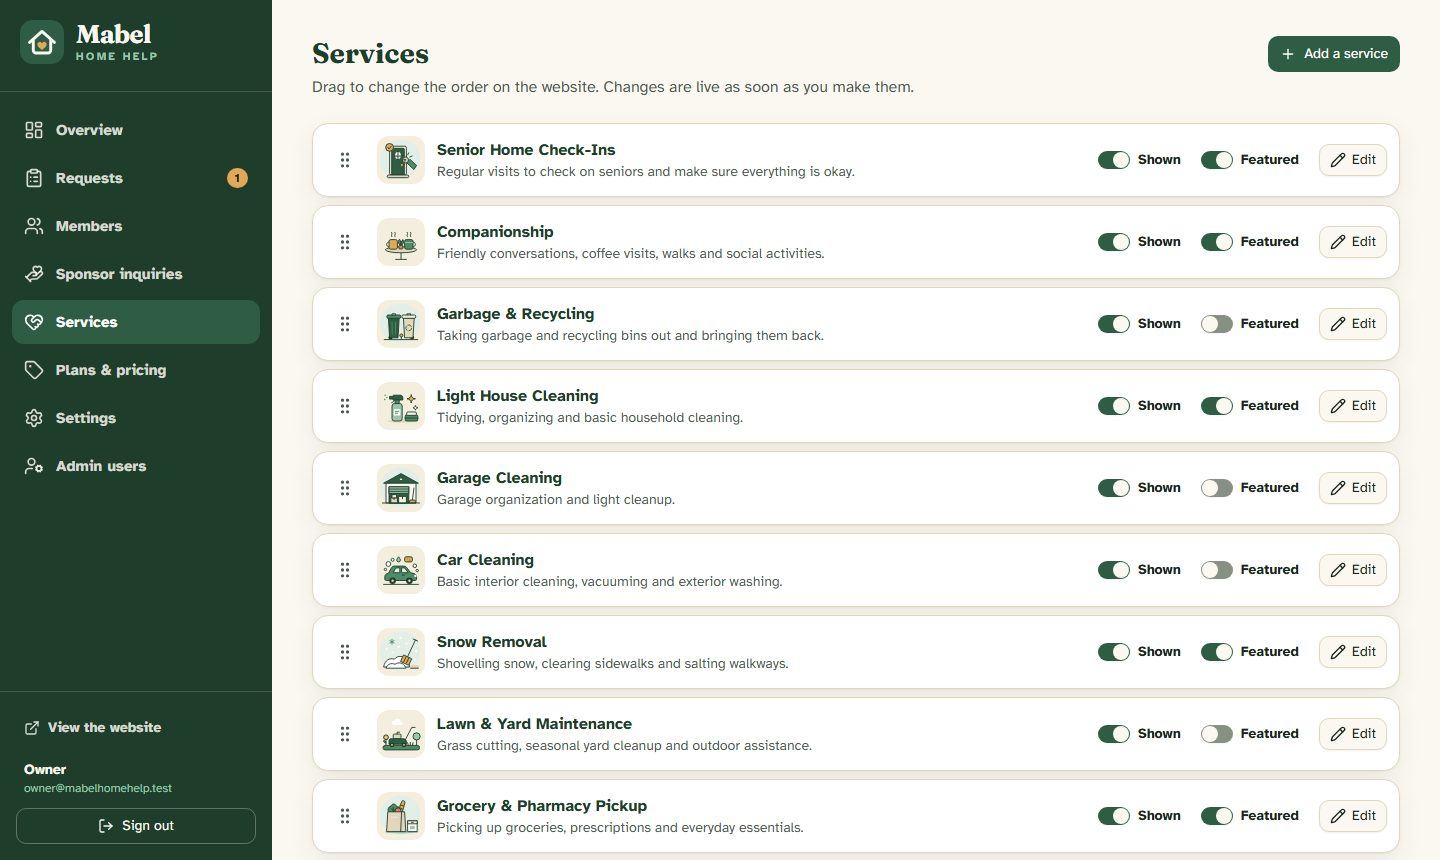
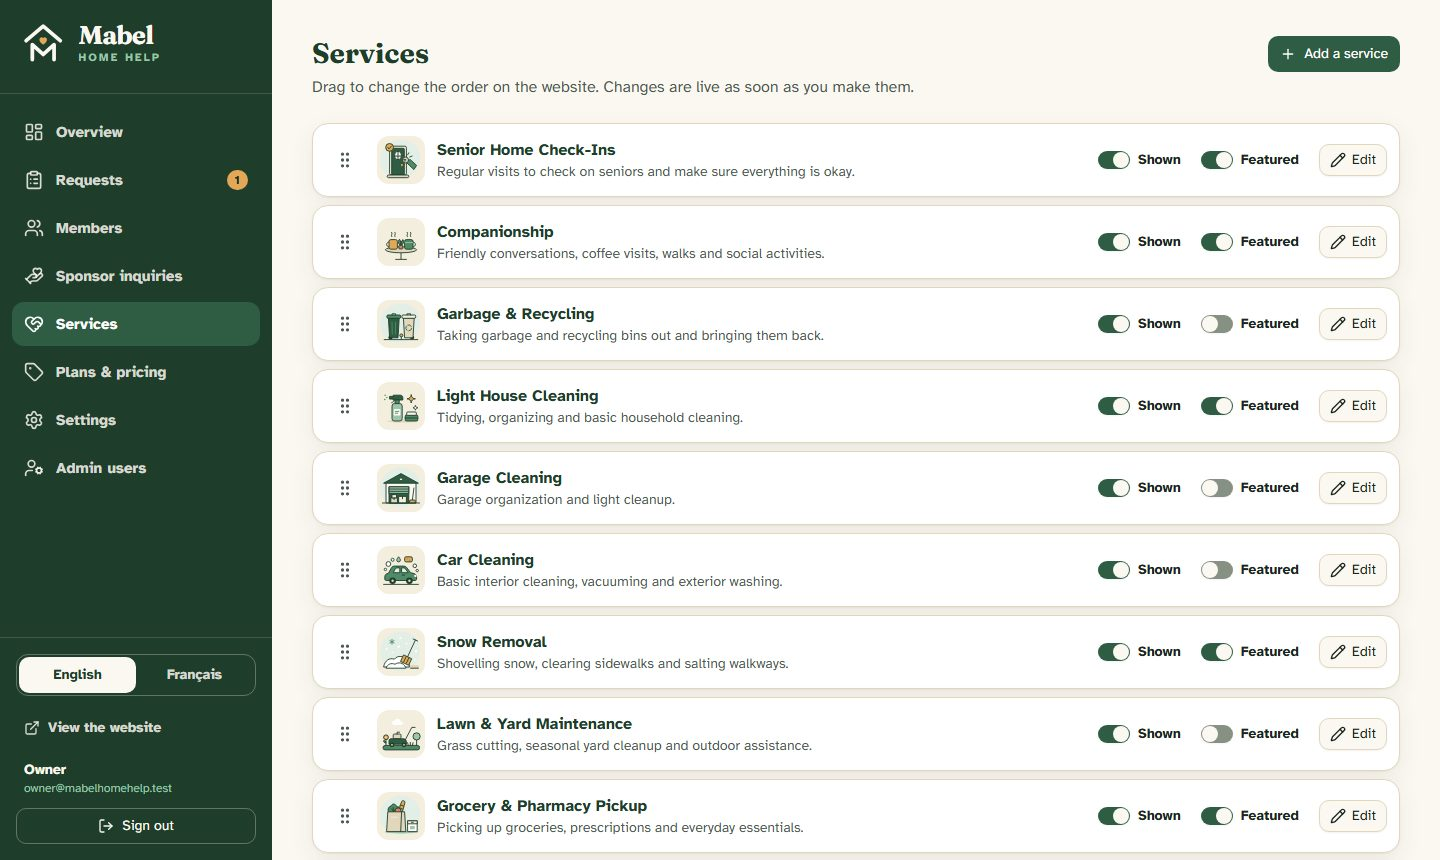
test, docs: cover the action bar and the French admin
- End-to-end: the bar hides on scroll and while typing; the dashboard
  switches language and remembers it; every admin screen is measured at
  six widths in French as well as English.
- README, AGENTS.md and the specification (section 22) describe the
  three changes; README screenshots retaken with the new logo.

diff --git a/tests/e2e/site.spec.ts b/tests/e2e/site.spec.ts
@@ -118,11 +118,82 @@ test.describe("public site", () => {
   });
 });
 
+test.describe("phone action bar", () => {
+  test.use({ viewport: { width: 390, height: 844 }, hasTouch: true });
+
+  test("steps aside while scrolling down and comes back on the way up", async ({
+    page,
+  }) => {
+    await page.goto("/");
+    const bar = page.getByRole("navigation", { name: "Quick contact actions" });
+    await expect(bar).toBeInViewport();
+
+    await page.mouse.wheel(0, 900);
+    await expect(bar).toHaveAttribute("data-hidden", "true");
+    await expect(bar).not.toBeInViewport();
+
+    await page.mouse.wheel(0, -200);
+    await expect(bar).not.toHaveAttribute("data-hidden", "true");
+    await expect(bar).toBeInViewport();
+  });
+
+  test("is left out of the booking page and hides while typing", async ({ page }) => {
+    await page.goto("/book");
+    await expect(page.getByRole("heading", { level: 1 })).toBeVisible();
+    await expect(
+      page.getByRole("navigation", { name: "Quick contact actions" }),
+    ).toHaveCount(0);
+
+    await page.goto("/contact");
+    const bar = page.getByRole("navigation", { name: "Quick contact actions" });
+    await expect(bar).toBeInViewport();
+    await page.getByLabel("Full name").focus();
+    await expect(bar).toHaveAttribute("data-hidden", "true");
+  });
+});
+
 test.describe("admin", () => {
   test.skip(
     !hasAdminCredentials,
     "SEED_ADMIN_EMAIL and SEED_ADMIN_PASSWORD must be set in .env",
   );
+
+  test("the dashboard can be switched to French and back", async ({ page }) => {
+    await signIn(page);
+    const sidebar = page.getByRole("complementary");
+    await expect(sidebar.getByRole("link", { name: "Overview" })).toBeVisible();
+
+    await sidebar.getByRole("button", { name: "Français" }).click();
+    await expect(sidebar.getByRole("link", { name: "Vue d'ensemble" })).toBeVisible();
+    await expect(page.locator("html")).toHaveAttribute("lang", "fr-CA");
+
+    // The choice is remembered, on every screen, including a fresh load.
+    await page.goto("/admin/settings");
+    await expect(page.getByRole("heading", { level: 1, name: "Paramètres" })).toBeVisible();
+    await page.goto("/admin/requests");
+    await expect(page.getByRole("heading", { level: 1, name: "Demandes" })).toBeVisible();
+    await expect(page).toHaveTitle(/Demandes/);
+
+    await page.getByRole("complementary").getByRole("button", { name: "English" }).click();
+    await expect(page.getByRole("heading", { level: 1, name: "Requests" })).toBeVisible();
+    await expect(page.locator("html")).toHaveAttribute("lang", "en-CA");
+  });
+
+  test("the sign-in page follows the browser language until one is chosen", async ({
+    browser,
+  }) => {
+    const context = await browser.newContext({ locale: "fr-CA" });
+    const page = await context.newPage();
+    await page.goto("/admin/login");
+    await expect(page.getByRole("heading", { name: "Connexion" })).toBeVisible();
+    await expect(page.getByLabel("Courriel")).toBeVisible();
+
+    await page.getByRole("button", { name: "English" }).click();
+    await expect(page.getByRole("heading", { name: "Sign in" })).toBeVisible();
+    await page.reload();
+    await expect(page.getByLabel("Email")).toBeVisible();
+    await context.close();
+  });
 
   test("the admin is not reachable without signing in", async ({ page }) => {
     await page.goto("/admin");

diff --git a/tests/e2e/responsive.spec.ts b/tests/e2e/responsive.spec.ts
@@ -125,9 +125,13 @@ for (const viewport of VIEWPORTS) {
       }
     });
 
-    test("admin screens fit the screen", async ({ page }) => {
+    test("admin screens fit the screen in English and French", async ({
+      page,
+      context,
+      baseURL,
+    }) => {
       test.skip(!hasAdminCredentials, "SEED_ADMIN_* must be set in .env");
-      test.setTimeout(120_000);
+      test.setTimeout(240_000);
 
       const [request, plan, service] = await Promise.all([
         prisma.bookingRequest.findFirst({ orderBy: { createdAt: "desc" } }),
@@ -157,6 +161,15 @@ for (const viewport of VIEWPORTS) {
       for (const path of paths) {
         await expectSoundLayout(page, path);
       }
+
+      // The same screens in French: the language is a cookie, not an address.
+      await context.addCookies([
+        { name: "mabel_admin_locale", value: "fr", url: `${baseURL}/admin` },
+      ]);
+      for (const path of paths) {
+        await expectSoundLayout(page, path);
+      }
+      await expect(page.locator("html")).toHaveAttribute("lang", "fr-CA");
     });
   });
 }

diff --git a/tests/unit/validation.test.ts b/tests/unit/validation.test.ts
@@ -177,6 +177,7 @@ describe("settingsSchema", () => {
     disclaimerEn: "Non-medical services only.",
     disclaimerFr: "",
     notificationEmails: [],
+    staffLocale: "EN",
   };
 
   it("allows phone and email to be empty until the client confirms them", () => {

diff --git a/docs/CAHIER_DE_CHARGES.md b/docs/CAHIER_DE_CHARGES.md
@@ -548,7 +548,7 @@ model SponsorInquiry {
 - Admin mutations and public form submissions use Server Actions; the only API routes are the auth handler and the Stripe webhook.
 - All database access goes through a `server/` layer; components never import Prisma directly.
 - Stripe is the source of truth for billing state. The `Membership` table is a mirror updated only by verified webhooks, plus the contact details collected at sign-up.
-- Public routes sit under a `[locale]` segment; the admin is English only and sits outside it.
+- Public routes sit under a `[locale]` segment; the admin sits outside it and takes its language (English or French) from a per-browser preference (see section 22).
 
 ### 10.2 Folder structure
 
@@ -951,3 +951,30 @@ as a remaining limit.
 - Everything in section 20 that needs live accounts (Stripe, Resend, Turnstile,
   Upstash, Sentry) is still unverified against the real services.
 - A French speaker should review the French copy.
+
+---
+
+## 22. Changes before handover (2026-10-13)
+
+Requested after the first review of the deployed site.
+
+| Area | Was | Now | Why |
+|---|---|---|---|
+| 5.1 Mobile action bar | A full-width bar fixed to the bottom of every page | A slim floating bar that slides away while scrolling down or typing and returns on scrolling up; left out of the booking and membership pages; a single small "Book" button when no phone number is set | The fixed bar covered a tenth of a phone screen and got in the way of reading |
+| 11 Logo | House with a heart on a green tile | An M under a roof with a heart ("Roof and M") | Chosen from six directions drawn for the client; all six are in `docs/brand/` and any of them can replace it |
+| 8 Admin language | English only | English or French, switched from the menu or the sign-in page and remembered per browser; on a first visit it follows the browser's language | The owner and staff may prefer French |
+| 8 Emails to the team | Always English | English or French, chosen in Settings ("Language of emails sent to the team") | Same reason; emails to visitors already follow the visitor's language |
+| 10.3 Database URL | `DIRECT_URL` | `DATABASE_URL_UNPOOLED` | The name the Neon integration on Vercel creates |
+| 14 Seeding | Run by hand once | Run by every Vercel build; fills an empty database only and creates the first admin only while there are no users | A new environment sets itself up, and a deploy never undoes admin changes |
+
+Notes:
+
+- The admin's language is stored in the `mabel_admin_locale` cookie. Nothing
+  about it is stored per user, so it does not follow a person to another
+  device.
+- Names of service areas are stored on requests and memberships in English,
+  as typed on the English tab of Settings, and are shown that way in the
+  French admin too.
+- Text in SVG files under `public/brand/` and `docs/brand/` uses the web
+  fonts; a print shop needs the PNG sheet or outlined text.
+

diff --git a/README.md b/README.md
@@ -96,7 +96,8 @@
     <td width="50%"><img src="docs/screenshots/admin-plan-editor.jpg" alt="Admin: plan editor with English and French tabs"></td>
     <td width="50%" valign="top">
       <br>
-      The admin is English only and works on a phone. Every field that
+      The admin works on a phone and can be used in English or French
+      (a switch in the menu, remembered per browser). Every field that
       appears on the public site has an English and a French version; a French
       field left empty falls back to English.
     </td>
@@ -108,7 +109,9 @@
 </table>
 
 The illustrations and logo are original SVGs in `public/illustrations/` and
-`public/brand/`. Phone numbers and emails in the screenshots are placeholders.
+`public/brand/`. The other logo directions that were drawn, on one sheet, are
+in [`docs/brand/`](docs/brand/logo-options.png). Phone numbers and emails in
+the screenshots are placeholders.
 
 ## Built with
 
@@ -171,7 +174,7 @@ First end-to-end run on a machine: `npx playwright install chromium`.
 | Area | Where | Notes |
 |---|---|---|
 | Public pages | `src/app/[locale]/` | Statically prerendered. Text comes from `messages/en.json` and `messages/fr.json` |
-| Admin | `src/app/admin/` | English only, its own root layout. Every page and action calls `requireAdmin()` |
+| Admin | `src/app/admin/` | English and French (a cookie, not a URL), its own root layout. Text is under `Admin` in the message files. Every page and action calls `requireAdmin()` |
 | Editable content | `src/server/queries/content.ts` | Cached with `use cache` and one tag; admin saves call `updateTag` so the site updates at once |
 | Forms | `src/components/forms/`, `src/server/actions/public.ts` | Zod schemas in `src/lib/validation/` are shared by browser and server |
 | Admin actions | `src/server/actions/admin/` | Server Actions; the only API routes are auth and the Stripe webhook |

diff --git a/AGENTS.md b/AGENTS.md
@@ -14,10 +14,21 @@ Read `README.md` ("How it is put together") before changing structure, and
 `docs/CAHIER_DE_CHARGES.md` for what the product must do.
 
 - **Two root layouts, no `app/layout.tsx`**: `src/app/[locale]/` (public,
-  English and French) and `src/app/admin/` (English only).
+  English and French by URL) and `src/app/admin/` (English and French by
+  cookie, see below).
 - **Every visible public string** lives in `messages/en.json` and
   `messages/fr.json` with identical keys (`npm test` fails otherwise). Never
   hard-code public copy.
+- **Admin text** is translated too, under `Admin` in the same two files. The
+  admin's language is a cookie read by `getAdminLocale()`
+  (`src/server/admin-i18n.ts`), so anything that shows text must render inside
+  `<AdminIntl>`, which sits inside a `<Suspense>` boundary. Async server code
+  uses `getAdminT("Area")`, `getAdminLabels()` and `getAdminFormat()`; client
+  and non-async components use `useTranslations("Admin.Area")`. Server Actions
+  return `error` already translated; Zod messages in
+  `lib/validation/admin.ts` are keys of `Admin.Validation`, turned into text by
+  `useValidationMessage()`. English wording is what the end-to-end tests look
+  for.
 - **Editable content** (services, plans, settings) has `...En` / `...Fr`
   columns; read it through `src/server/queries/content.ts`, and call
   `updateTag(CONTENT_TAG)` after any admin write.
